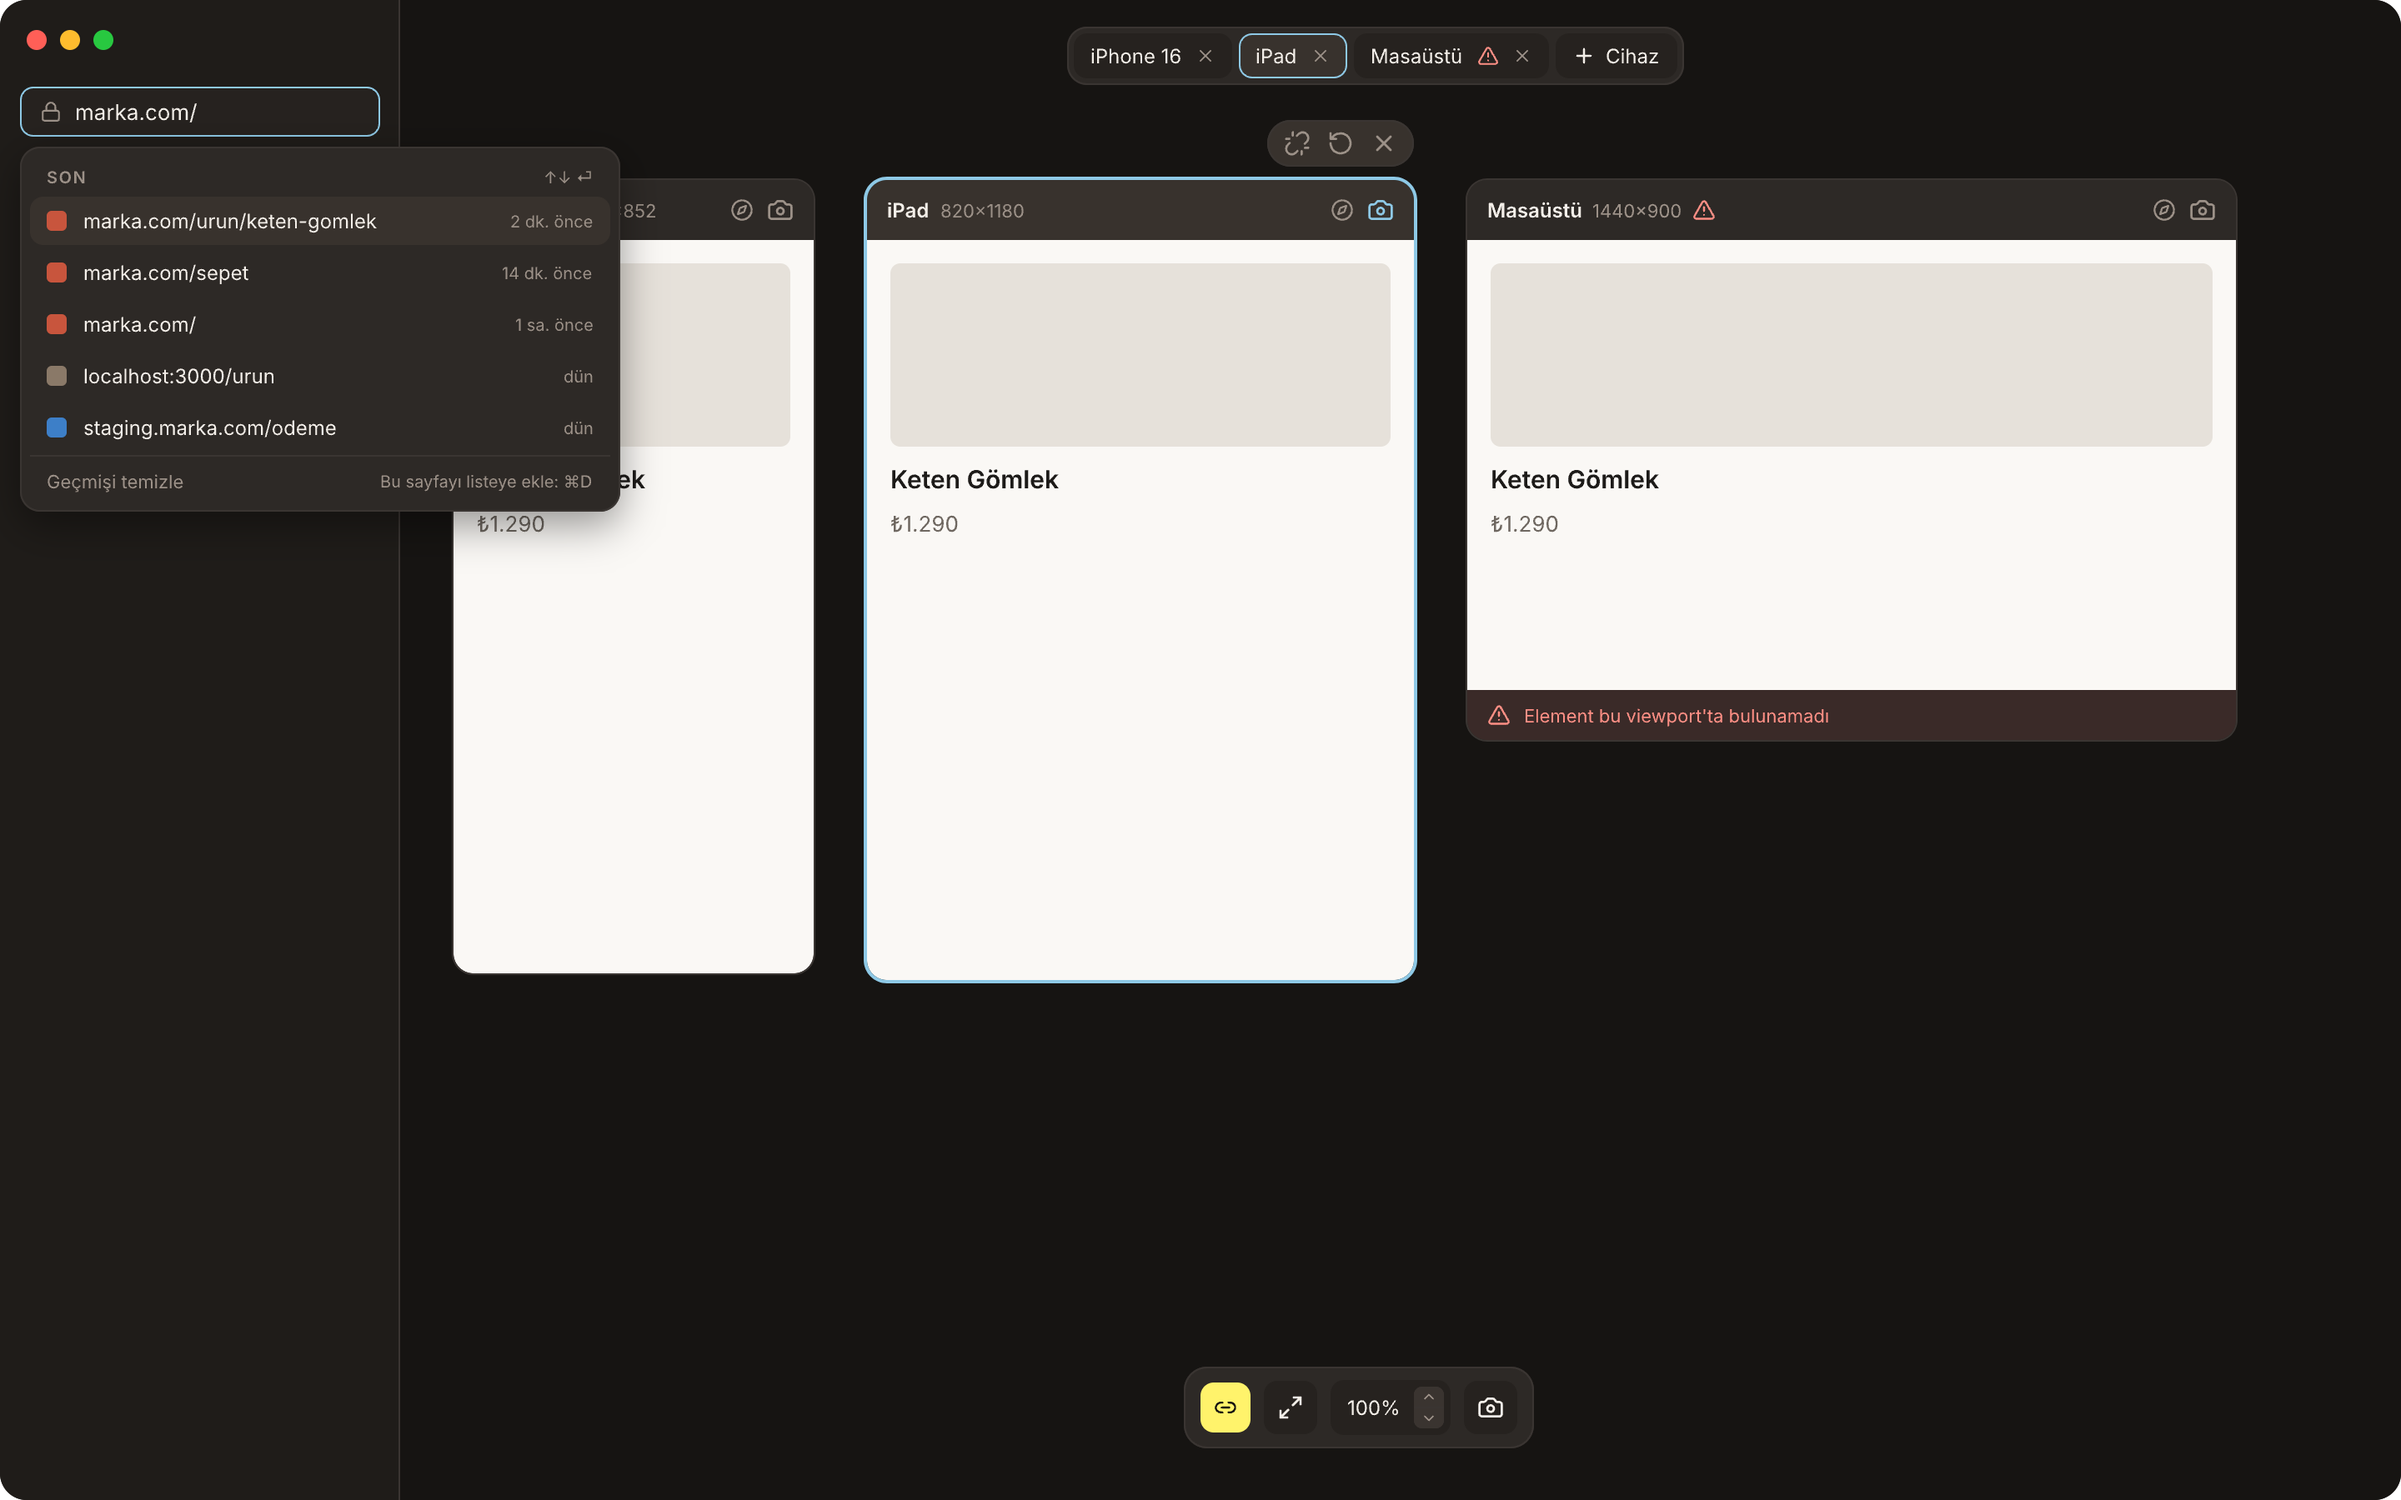
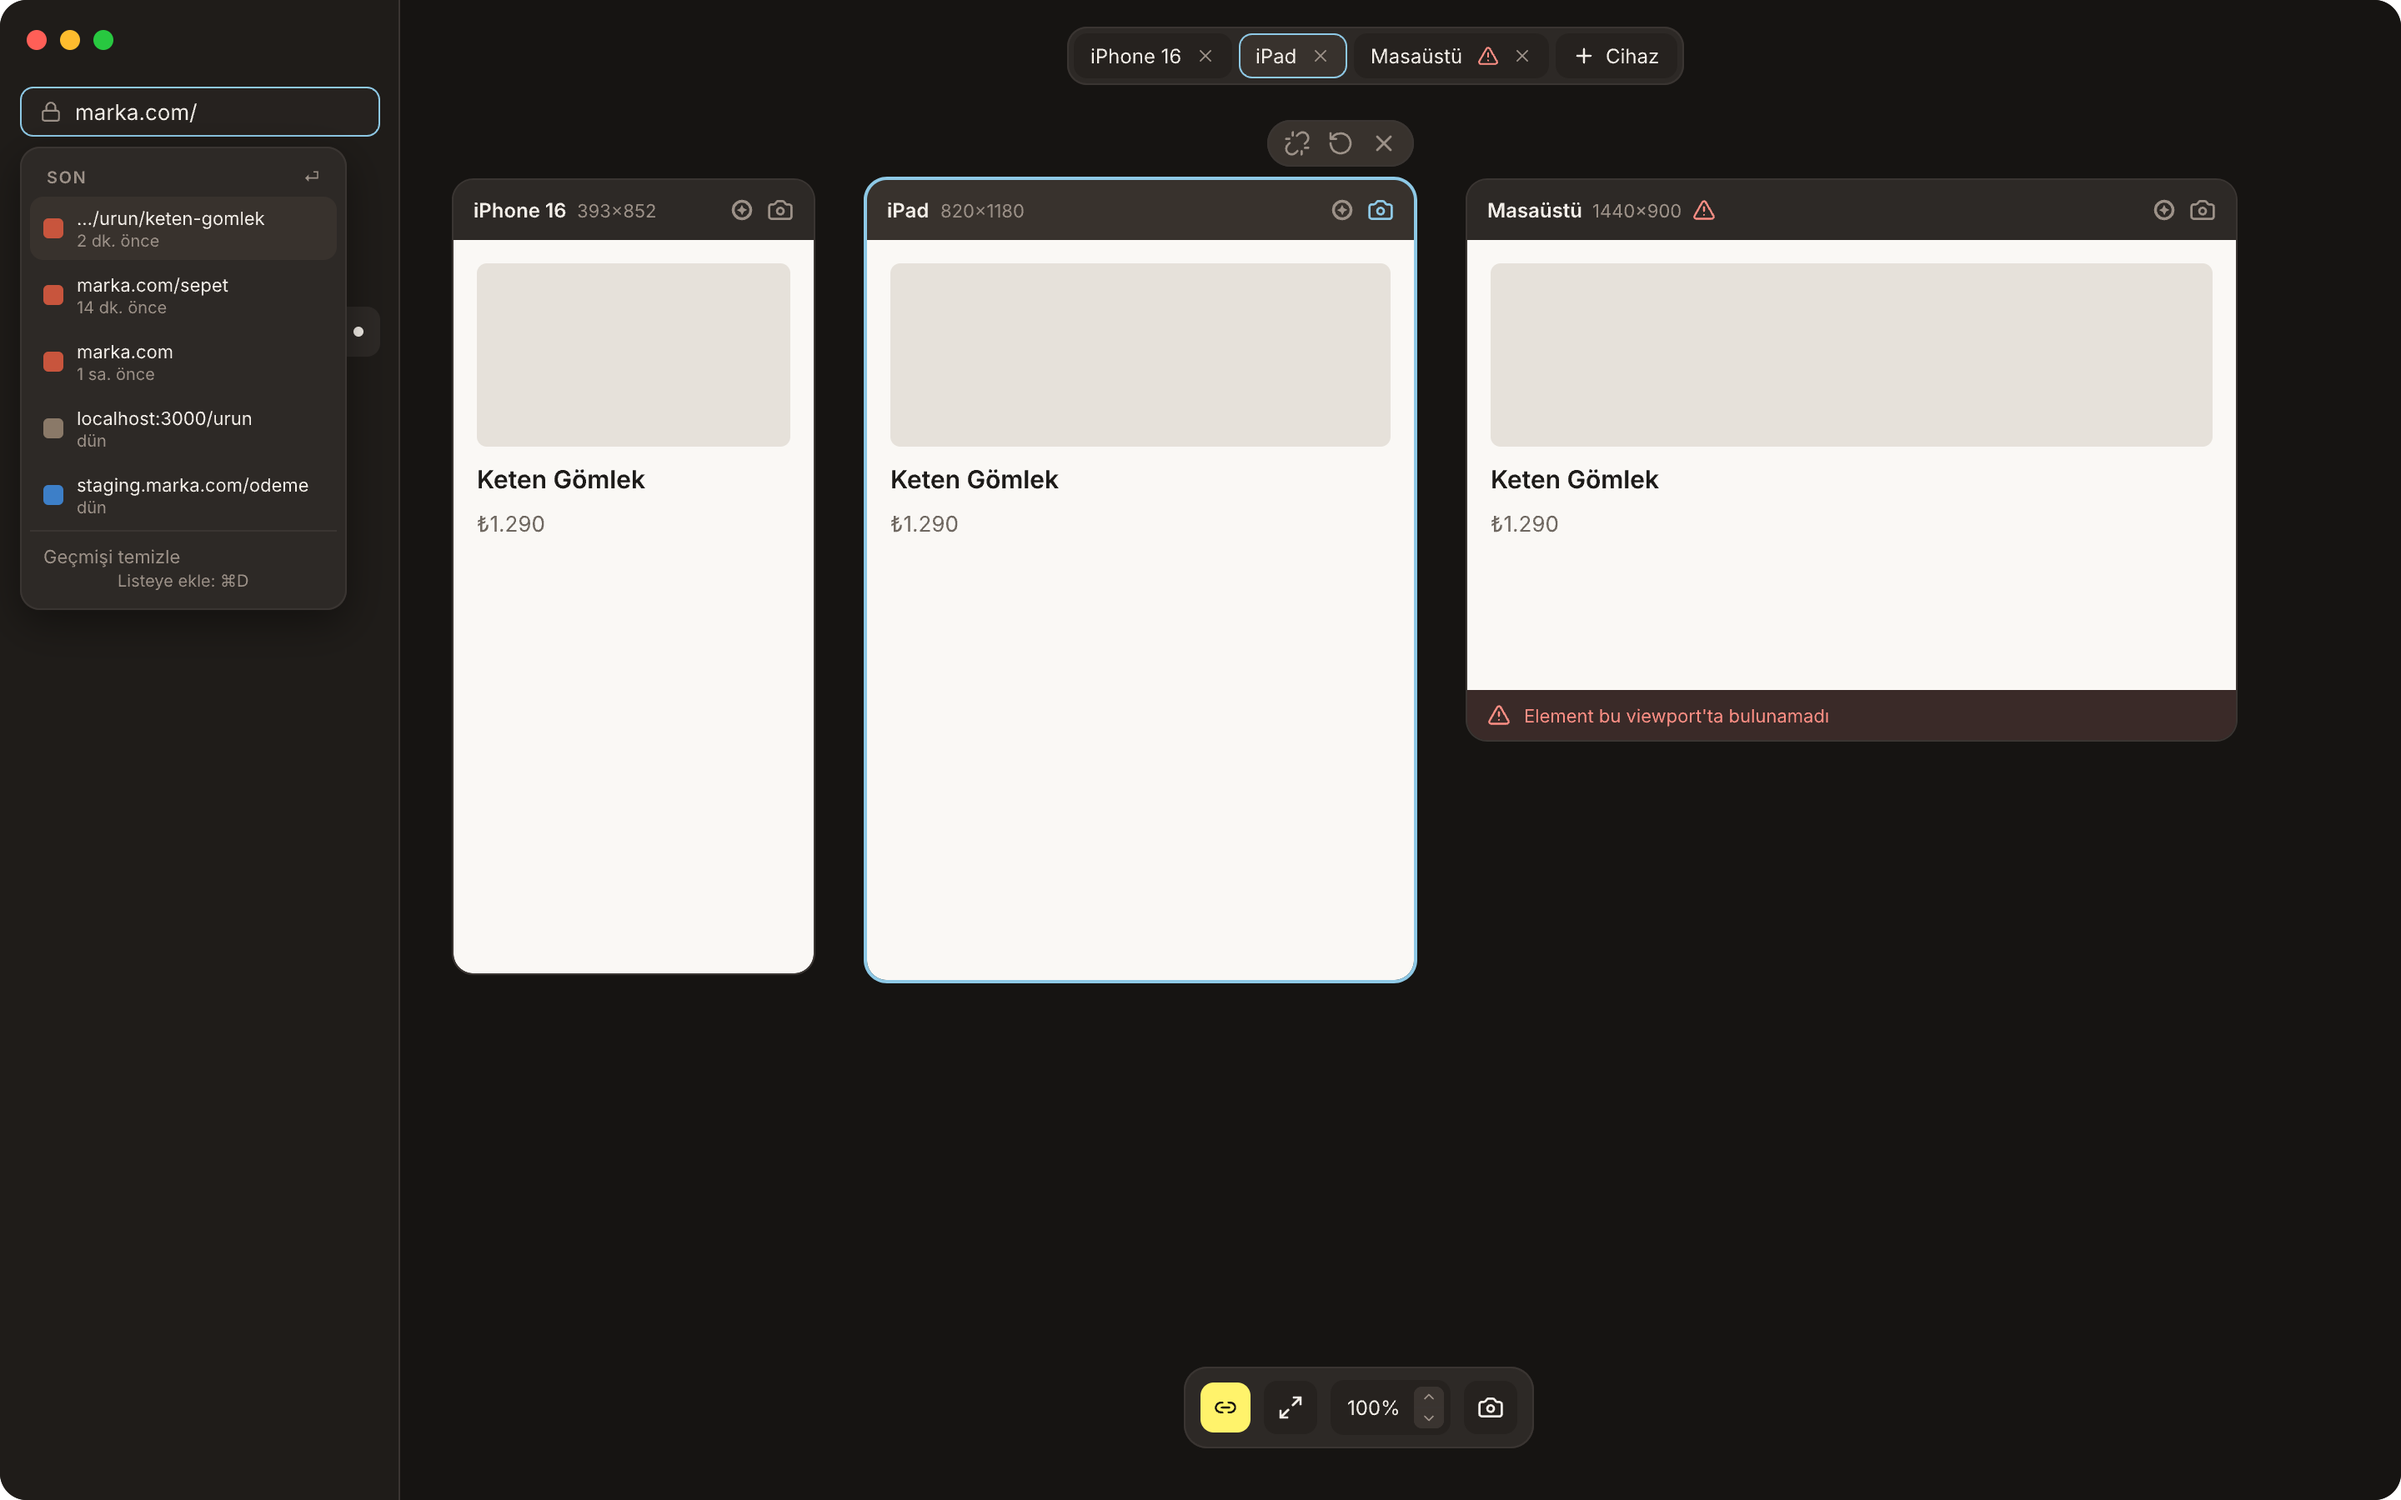
Keep URL recent menu inside sidebar width

Changed region(s): [[0.0, 0.1244, 0.2812, 0.3733], [0.0625, 0.3733, 0.0938, 0.4044]]

diff --git a/DESIGN.md b/DESIGN.md
@@ -104,7 +104,7 @@ Kullanıcının kaydettiği birim. Bir markanın (mağazanın) tüm kurulumunu t
 
 Üst çubuk yok. Üç kontrol yüzeyi, her biri tek iş yapar:
 
-- **Sidebar (220, varsayılan açık):** üstte traffic lights, URL alanı ve geri/ileri/yenile; altında "SAYFALAR" listesi. **URL alanı odaklanınca** altında "SON" menüsü: son 5 URL (favicon, adres, ne zaman; ↑↓ ⏎ ile seçilir, yazdıkça süzülür), altta "Geçmişi temizle" ve "Bu sayfayı listeye ekle: ⌘D" ipucu; geçmiş uygulamaya aittir, proje dosyasına girmez. **Sayfa listesi durumları** (`sidebar-states@2x.png`): hover'da satır zemini + sağda kalem ve ⋯; yeniden adlandırma yerinde metin alanı (gök kenar; ⏎ kaydet, Esc iptal); sürükle-bırak'ta satır kalkar (gölge, hafif eğim), hedefte gök ekleme çizgisi; açık URL listede yoksa en altta sarı kenarlı "Bu sayfayı ekle · /yol · ⌘D" satırı; boş durum "Henüz sayfa yok · Açık sayfayı ⌘D ile ekle."; "+ Ekle" her zaman en altta. Kapanınca ışıklar, sidebar düğmesi, nav ve URL canvas'ın üst solunda tek bir yüzen kapsüle taşınır (aynı sırayla), canvas tam genişliği alır.
+- **Sidebar (220, varsayılan açık):** üstte traffic lights, URL alanı ve geri/ileri/yenile; altında "SAYFALAR" listesi. **URL alanı odaklanınca** altında "SON" menüsü, sidebar genişliğinde (196, canvas'a taşmaz): son 5 URL (favicon; adres ortadan kısaltılır; altında ne zaman; ↑↓ ⏎ ile seçilir, yazdıkça süzülür), altta "Geçmişi temizle" ve "Bu sayfayı listeye ekle: ⌘D" ipucu; geçmiş uygulamaya aittir, proje dosyasına girmez. **Sayfa listesi durumları** (`sidebar-states@2x.png`): hover'da satır zemini + sağda kalem ve ⋯; yeniden adlandırma yerinde metin alanı (gök kenar; ⏎ kaydet, Esc iptal); sürükle-bırak'ta satır kalkar (gölge, hafif eğim), hedefte gök ekleme çizgisi; açık URL listede yoksa en altta sarı kenarlı "Bu sayfayı ekle · /yol · ⌘D" satırı; boş durum "Henüz sayfa yok · Açık sayfayı ⌘D ile ekle."; "+ Ekle" her zaman en altta. Kapanınca ışıklar, sidebar düğmesi, nav ve URL canvas'ın üst solunda tek bir yüzen kapsüle taşınır (aynı sırayla), canvas tam genişliği alır.
 - **Cihaz sekmeleri (canvas üstünde yüzen şerit):** açık viewport'lar sırayla; her sekme kartla aynı durumu taşır (lider gök çerçeve, senkron kaçtı mercan üçgen, yükleniyor dönen ikon, snapshot resim ikonu). Sığmayınca şerit kayar (kenarda solma + ok); sağda "+N" çipi gizli cihazların en ciddi durumunu gösterir (hata > lider > yükleniyor > normal) ve menü açar ("GİZLİ CİHAZLAR"): her gizli cihaz için ad, boyut · motor · durum metni, odakla ve kapat düğmeleri. Etkileşimler aşağıdaki tabloda. Sekme adı asla kısaltılmaz, durum ikonu asla gizlenmez. Sonda "+ Cihaz".
 - **Alt yüzen çubuk (ikon-only):** Senkron (sarı zincir; kapalıyken gri kırık zincir), Sığdır, zoom kontrolü (`Toolbar/ZoomControl`: yüzde metni + sağında dikey mini stepper ▲▼; yüzdeye tık → menü, ▲▼ kademeli zoom, yüzde yatay sürükle → sürekli zoom), ekran görüntüsü. Her ikonun hover'ında koyu tooltip: ad + kısayol. Bildirim kapsülü bu çubuğun üstüne çıkar; menü veya tooltip açıkken gösterilmez.
 - **Ekran görüntüsü menüsü (kamera düğmesi, çubuğun üstüne açılır):** Tüm viewport'lar ⌘⇧S · Seçili viewport ⌘S · Canvas'ı olduğu gibi · — · Panoya da kopyala ✓ · Ölçek 2× ▾ · — · Son görüntüyü Finder'da göster. Kart başlığındaki kamera yalnız o viewport'u alır. Her yakalamadan sonra kapsül: "Kaydedildi ve kopyalandı · Finder'da Göster".

diff --git a/design/notlar/2026-10-10.md b/design/notlar/2026-10-10.md
@@ -46,3 +46,4 @@
 - Kullanıcı: açık tema şimdilik olmasın, ileriye. Token değerleri ve iki referans frame dosyada kaldı; DESIGN.md §4'e 'ileride' olarak işlendi, kod oturumuna Tema segmentini gizleme notu düştü. **İşlendi**.
 - Kullanıcı: kalan işleri sırayla, alt ajanlarla çakışmadan; URL'ye son 5 geçmiş. İki alt ajan sabit negatif bölgelere (x=-3200) glif ve ikon eskizi çiziyor; ben URL son 5 menüsü, sidebar durumları (5 hal), ekran görüntüsü menüsünü çizdim; DESIGN.md §3.2 ve etkileşim tablosu güncellendi, §5 9–11 kapandı. **İşlendi**.
 - Alt ajanlar bitti: `Engine Glyphs` (M1DiUr) ve `App Icon Concepts` (p6QOMe) çakışmasız çizildi. WebKit glifi kart bileşenine path olarak girdi (Lucide pusula kalktı); tooltip frame'lerindeki override'lar yeni path id'sine taşındı. DESIGN.md §4, §5 (madde 8), §6 güncellendi. **İşlendi**.
+- Kullanıcı: URL son 5 menüsü sidebar dışına taşmasın. Menü 196 px'e indirildi (sağ kenar 208 < 220), adresler kısaltıldı, zaman ikinci satıra alındı. **İşlendi** (DESIGN.md §3.2).
